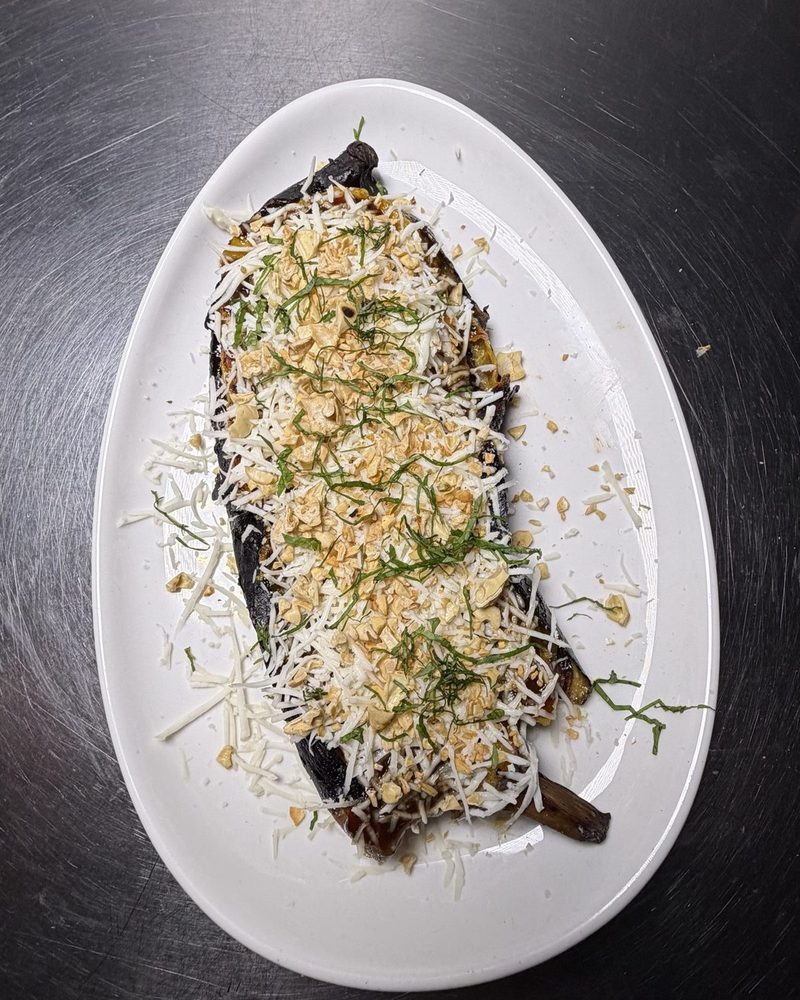
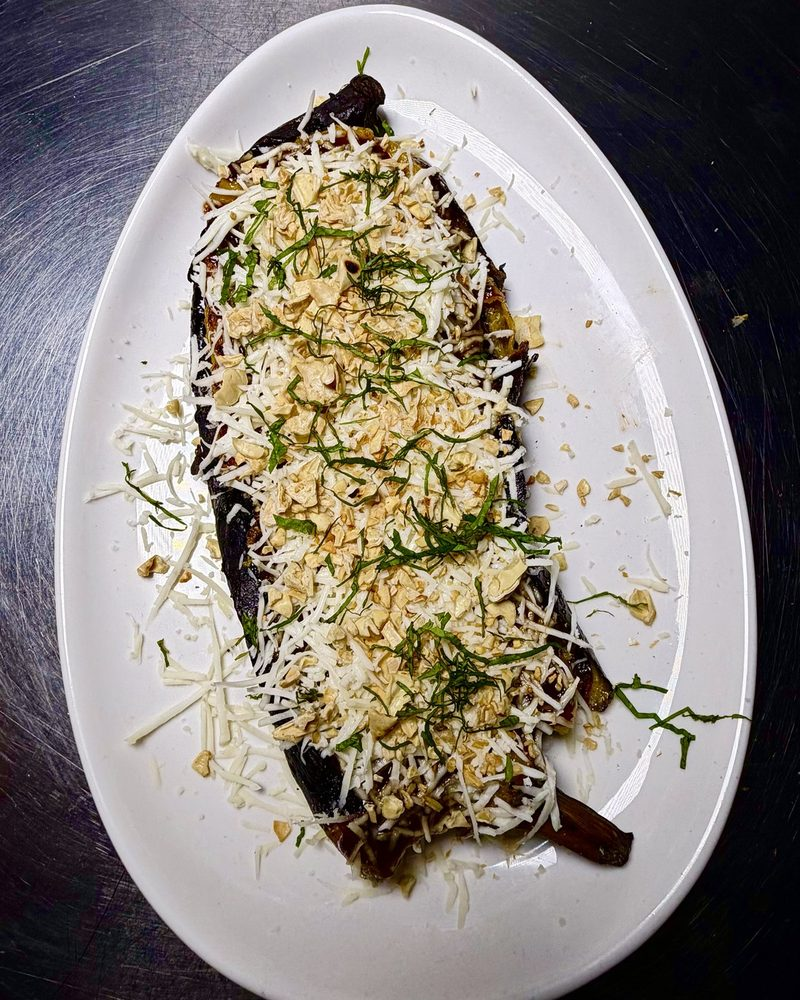
Maduro con Macambo: foto nueva y en Novedades
Claude-Session: https://claude.ai/code/session_01GqVx38o9L3A89diM3NwEXC

diff --git a/lib/products.ts b/lib/products.ts
@@ -675,7 +675,9 @@ export function getPacks(): Product[] {
 // 24-11-2026 (Amos): se quita la zona de Novedades. Los platos siguen en su
 // sección de la carta. Antes: ahora-comen-todos-rabo, empanada-de-queso,
 // la-chocletiza, ceviche-jipijapa.
-export const DESTACADOS_IDS: string[] = [];
+export const DESTACADOS_IDS: string[] = [
+  "maduro-con-macambo", // 24-11-2026 (Amos): novedad
+];
 
 // Platos que en la CARTA se resaltan con el dorado del menú (borde + brillo)
 // para llamar la atención. Añadir/quitar ids aquí.
